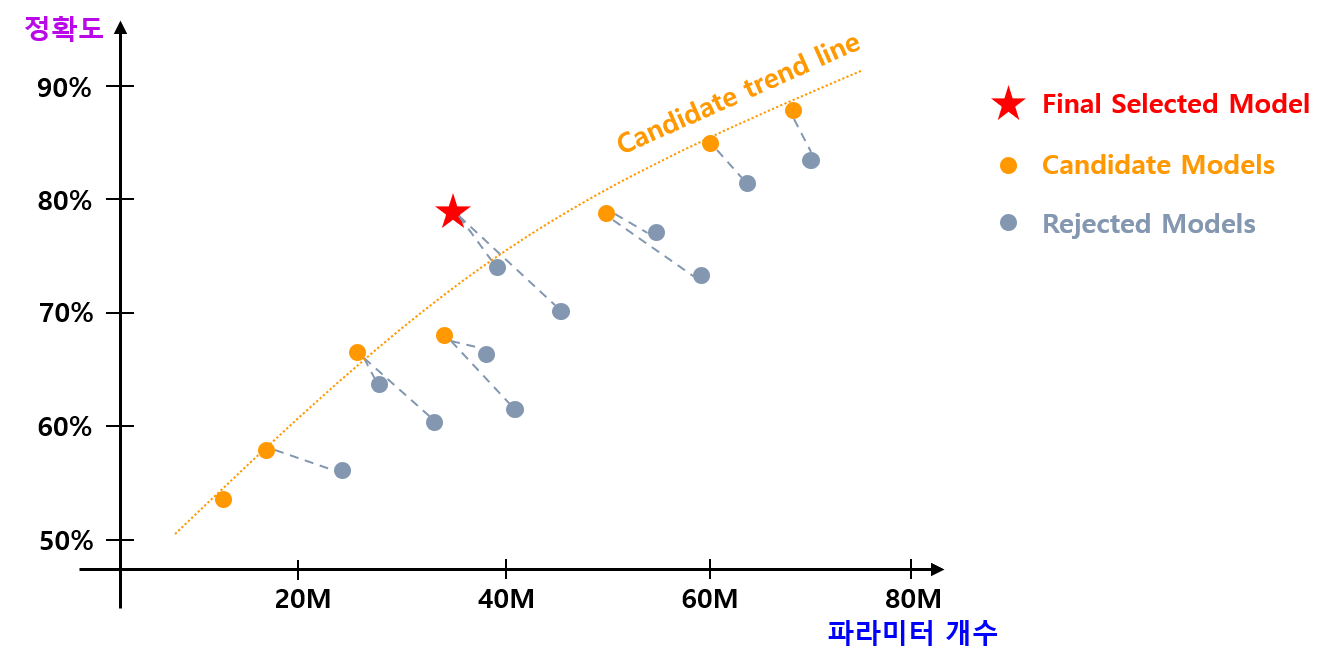
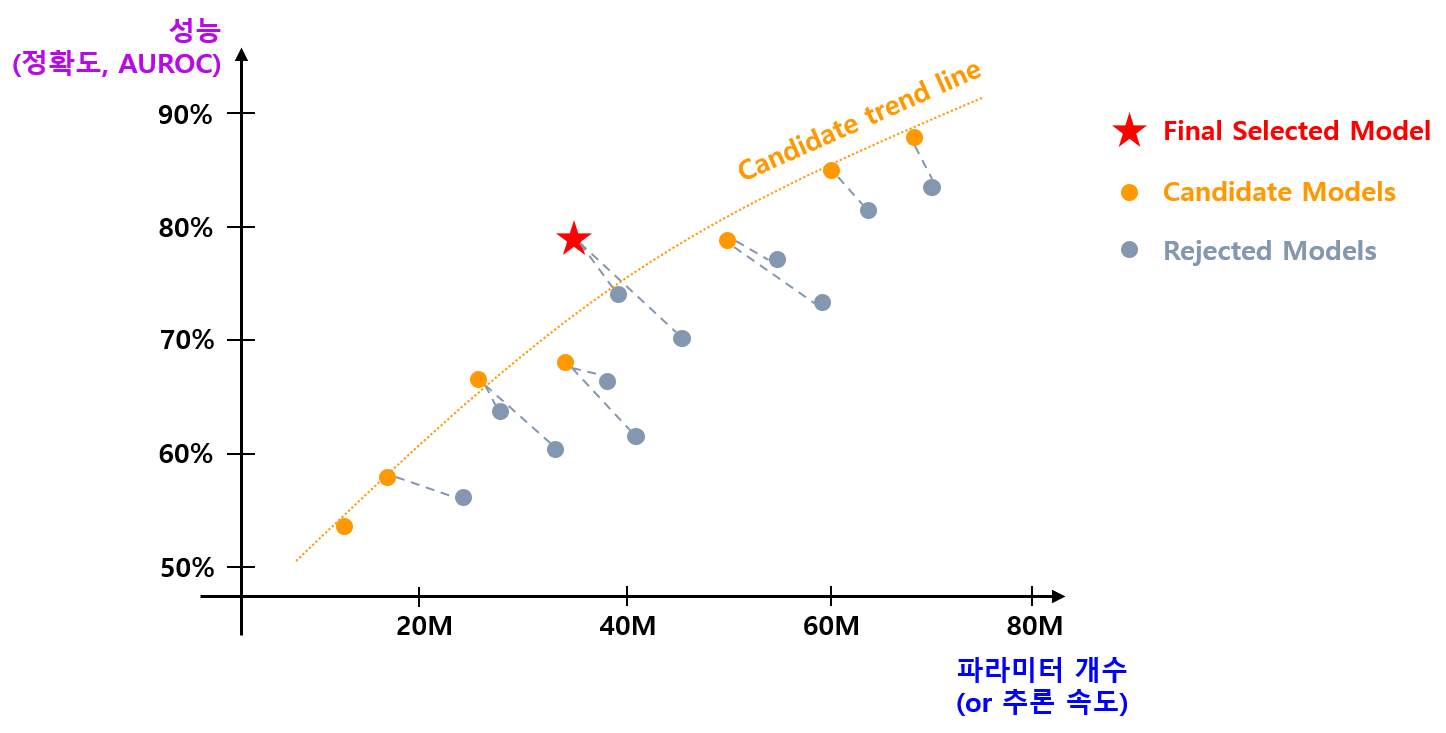
DOC: re-define model candidate criteria

diff --git a/Image Processing/Special_Vision_Anomaly_Detection_필요성.md b/Image Processing/Special_Vision_Anomaly_Detection_필요성.md
@@ -94,19 +94,21 @@ Vision 분야에서의 이상 탐지를 위해, **Normal / Abnormal 의 Classifi
     * [PapersWithCode : Anomaly Detection on MVTec AD](https://paperswithcode.com/sota/anomaly-detection-on-mvtec-ad)
 
 * 모델 후보 기본 조건 **(아래 4가지 모두 만족)**
-  * 모델 정확도
-    * 각 분야 (Classification, Anomaly Detection) 별 **LeaderBoard 300 위 이내**
-  * 모델 파라미터 개수
-    * **100M (1억 개) 이하**
-    * 기본적으로 학습 및 추론에 너무 많은 시간이 걸릴 것으로 예상되는 모델은 제외 
+  * 모델 성능 기준
+    * Classification : **Top-1 Accuracy (300위 이내)**
+    * Anomaly Detection : **Detection [AUROC](../AI%20Basics/Data%20Science%20Basics/데이터_사이언스_기초_Metrics.md#3-2-area-under-roc-curve-roc-auc) (100위 이내)**
+  * 모델 규모 및 속도
+    * 기본적으로 학습 및 추론에 **너무 많은 시간이 걸릴 것으로 예상되는 모델은 제외**
+    * Classification : Parameter 개수 **100M (1억 개) 이하**
+    * Anomaly Detection : 기준 없음
   * **512 x 512 이상의 해상도** 에서 사용 가능한 모델
     * 미세한 Anomaly 도 탐지할 수 있어야 함 (= 이상 탐지를 위해 인간 노동력 대신 AI를 사용할 만한 이유)
   * Github 등에 **구현 코드가 존재** 하는 모델
 
 * 모델 선정 기준
   * 아래 각각에 대해 다음과 같은 방법으로 선정 **(아래 그림 참고)**
-    * **정확도 (분류의 경우 Top 1 Accuracy) 및 파라미터 개수를 scatter plot** 으로 나타낸다.
-    * 다른 어떤 모델도 해당 모델보다 **정확도가 더 높음과 동시에 파라미터 개수가 더 적은** 경우가 없는 모델만 Candidate 로 선정한다.
+    * **성능지표 및 파라미터 개수 (또는 추론 시간) 를 scatter plot** 으로 나타낸다.
+    * 다른 어떤 모델도 해당 모델보다 **성능지표 값이 더 높음과 동시에 파라미터 개수 (또는 추론 시간) 가 더 적은** 경우가 없는 모델만 Candidate 로 선정한다.
     * Candidate Model 의 추세선을 그린다.
     * Candidate Model 중 이 추세선을 기준으로 **가장 왼쪽 위에** 있는 모델을 최종 선택한다.
   * PapersWithCode LeaderBoard 정보만으로 선정 후, 다음을 반복
